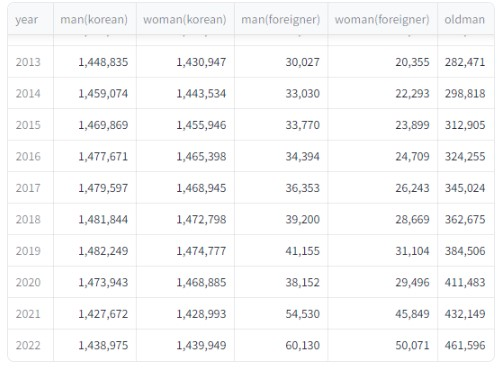
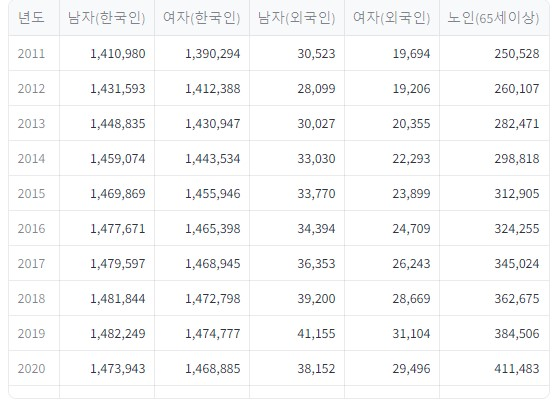
한글패치 마무리

diff --git a/app_eda.py b/app_eda.py
@@ -50,7 +50,7 @@ def run_eda_app():
     #plt.title( ylabel +  ' population data by ' + 'year')
     plt.title( ylabel )
     
-    plt.xlabel('년도')
+    plt.xlabel('년도 별' + ylabel + ' 데이터 ' )
     plt.ylabel(ylabel)
     plt.plot( df[selected_column2] )
     st.pyplot(fig)
@@ -68,7 +68,7 @@ def run_eda_app():
 
     if st.checkbox('상관 관계 데이터 보기'):
         df2=df.sum(axis=1)
-        df['인구'] = df2
+        df['인천 인구'] = df2
         selected_list = st.multiselect('두개의 컬럼을 선택하세요.' ,df.columns[:], max_selections=2)  
 
         #두개일때만 차트 그리기 
@@ -90,8 +90,8 @@ def run_eda_app():
             st.text('')
     
     else:
-        if '인구' in df.columns:  #sum 컬럼이 있다면 삭제
-            df = df.drop(labels='인구',axis=1,inplace=True)
+        if '인천 인구' in df.columns:  #sum 컬럼이 있다면 삭제
+            df = df.drop(labels='인천 인구',axis=1,inplace=True)
 
     
    
